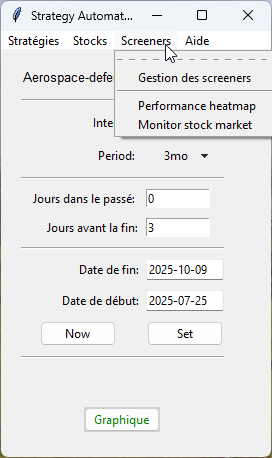
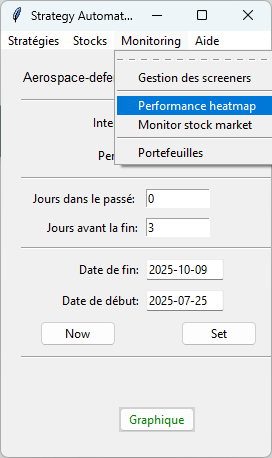
Deployed b010e01 with MkDocs version: 1.6.1

diff --git a/heatmap-screener/heatmaps/index.html b/heatmap-screener/heatmaps/index.html
@@ -1237,15 +1237,47 @@
 
 <h1 id="cartes-de-chaleur-performance">Cartes de chaleur &amp; Performance<a class="headerlink" href="#cartes-de-chaleur-performance" title="Permanent link">&para;</a></h1>
 <p>Un moyen de surveiller le marché avec des cartes de chaleurs graphiques qui affichent les performances des actions misent sous surveillance.</p>
-<p><a href="https://www.trading-et-data-analyses.com/p/documentation-plateforme-de-trading.html#Heatmap_performance_screener">Ancienne documentation - Cartes de chaleur &amp; Performance</a></p>
 <figure style="text-align: center;">
-    <a href="/TradingInPython-doc/images/trading_in_python_2.png" class="glightbox" data-gallery="galerie" title="Titre de l'image">
-        <img src="/TradingInPython-doc/images/trading_in_python_2.png" alt="Image 2" width="200" />
+    <a href="/TradingInPython-doc/images/heatmap/menu-gestion-screeners.png" class="glightbox" data-gallery="galerie" title="Menu Monitoring">
+        <img src="/TradingInPython-doc/images/heatmap/menu-gestion-screeners.png" />
     </a>
-    <figcaption><em>Figure 1 – Cliquez pour agrandir</em></figcaption>
+    <figcaption><em>Menu Monitoring -> Performance heatmap</em></figcaption>
 </figure>
 
-<p>images\heatmap\menu-gestion-screeners.png</p>
+<p>Dans le menu <strong>Monitoring</strong> choisissez <strong>Performace Heatmap</strong> (Carte de chaleur et de performances).</p>
+<p>Surveillez facilement et rapidement des dizaines d'actions, grâce aux indicateurs techniques dans une Heatmap Performance de la plateforme.</p>
+<p>Une Heatmap ou carte de chaleur représente les performances des actions sous forme de couleurs avec des couleurs plus ou moins vertes pour les actions à tendance haussière et plus ou moins rouge pour les actions à tendance baissière.</p>
+<p>Créez vos screeners en sélectionnant les actions que vous souhaitez mettre sous surveillance, ouvrez le <a href="../screeners/">Sélecteur de Stocks</a>, choisissez dans la liste des actions de la plateforme celle que vous souhaitez voir dans la Heatmap (Carte de chaleur) :</p>
+<figure style="text-align: center;">
+    <a href="/TradingInPython-doc/images/heatmap/heatmap.png" class="glightbox" data-gallery="galerie" title="Menu screeners">
+        <img src="/TradingInPython-doc/images/heatmap/heatmap.png" />
+    </a>
+    <figcaption><em>Carte de chaleur et de performance</em></figcaption>
+</figure>
+
+<p>Cliquez sur le bouton <strong>Ouvrir</strong> pour choisir un fichier screeners .json. Ici on est avec <strong>info-quantique.json</strong> il y a 5 actoins du marché de l'informatique Quantique :</p>
+<ul>
+<li>Stocks chargées: 5 - QBTS, IONQ, PLTR, QUBT, RGTI</li>
+</ul>
+<p>Cliquez sur le bouton <strong>Exécuter</strong> pour afficher la carte de Performance :</p>
+<figure style="text-align: center;">
+    <a href="/TradingInPython-doc/images/heatmap/heatmap-quantique.png" class="glightbox" data-gallery="galerie" title="Carte de chaleur du marché de l'informatique quantique">
+        <img src="/TradingInPython-doc/images/heatmap/heatmap-quantique.png"/>
+    </a>
+    <figcaption><em>Carte de chaleur du marché de l'informatique quantique</em></figcaption>
+</figure>
+
+<ul>
+<li>Intervalle : pour la récupération des données ici '1d' 1 jour</li>
+<li>Sampling : -3 -5 -7 signifie que les calculs vont se faire -3 -5 et -7 jours en arrière</li>
+</ul>
+<p>Pour comprendre les couleurs de la carte vous ouvrez la fiche technique de l'action par exemple </p>
+<figure style="text-align: center;">
+    <a href="/TradingInPython-doc/images/heatmap/fiche-technique.png" class="glightbox" data-gallery="galerie" title="Fiche technique de l'action">
+        <img src="/TradingInPython-doc/images/heatmap/fiche-technique.png"/>
+    </a>
+    <figcaption><em>Fiche technique de l'action</em></figcaption>
+</figure>
 
 
 
@@ -1266,7 +1298,7 @@
     <span class="md-icon" title="Dernière mise à jour">
       <svg xmlns="http://www.w3.org/2000/svg" viewBox="0 0 24 24"><path d="M21 13.1c-.1 0-.3.1-.4.2l-1 1 2.1 2.1 1-1c.2-.2.2-.6 0-.8l-1.3-1.3c-.1-.1-.2-.2-.4-.2m-1.9 1.8-6.1 6V23h2.1l6.1-6.1zM12.5 7v5.2l4 2.4-1 1L11 13V7zM11 21.9c-5.1-.5-9-4.8-9-9.9C2 6.5 6.5 2 12 2c5.3 0 9.6 4.1 10 9.3-.3-.1-.6-.2-1-.2s-.7.1-1 .2C19.6 7.2 16.2 4 12 4c-4.4 0-8 3.6-8 8 0 4.1 3.1 7.5 7.1 7.9l-.1.2z"/></svg>
     </span>
-    <span class="git-revision-date-localized-plugin git-revision-date-localized-plugin-timeago" title="7 novembre 2025 11:59:48 UTC"><span class="timeago" datetime="2025-11-07T11:59:48+00:00" locale="fr"></span></span><span class="git-revision-date-localized-plugin git-revision-date-localized-plugin-iso_date" title="7 novembre 2025 11:59:48 UTC">2025-11-07</span>
+    <span class="git-revision-date-localized-plugin git-revision-date-localized-plugin-timeago" title="13 novembre 2025 17:22:10 UTC"><span class="timeago" datetime="2025-11-13T17:22:10+00:00" locale="fr"></span></span><span class="git-revision-date-localized-plugin git-revision-date-localized-plugin-iso_date" title="13 novembre 2025 17:22:10 UTC">2025-11-13</span>
   </span>
 
     

diff --git a/tests/images/index.html b/tests/images/index.html
@@ -1106,6 +1106,24 @@
   
 </li>
       
+        <li class="md-nav__item">
+  <a href="#test-ultime" class="md-nav__link">
+    <span class="md-ellipsis">
+      Test ultime
+    </span>
+  </a>
+  
+</li>
+      
+        <li class="md-nav__item">
+  <a href="#premiers-tests" class="md-nav__link">
+    <span class="md-ellipsis">
+      Premiers tests
+    </span>
+  </a>
+  
+</li>
+      
     </ul>
   
 </nav>
@@ -1358,6 +1376,24 @@
   
 </li>
       
+        <li class="md-nav__item">
+  <a href="#test-ultime" class="md-nav__link">
+    <span class="md-ellipsis">
+      Test ultime
+    </span>
+  </a>
+  
+</li>
+      
+        <li class="md-nav__item">
+  <a href="#premiers-tests" class="md-nav__link">
+    <span class="md-ellipsis">
+      Premiers tests
+    </span>
+  </a>
+  
+</li>
+      
     </ul>
   
 </nav>
@@ -1492,7 +1528,7 @@
     <span class="p">&lt;</span><span class="nt">figcaption</span><span class="p">&gt;&lt;</span><span class="nt">em</span><span class="p">&gt;</span>Figure 1 – Cliquez pour agrandir<span class="p">&lt;/</span><span class="nt">em</span><span class="p">&gt;&lt;/</span><span class="nt">figcaption</span><span class="p">&gt;</span>
 <span class="p">&lt;/</span><span class="nt">figure</span><span class="p">&gt;</span>
 </code></pre></div>
-<h1 id="test-ultime">Test ultime<a class="headerlink" href="#test-ultime" title="Permanent link">&para;</a></h1>
+<h2 id="test-ultime">Test ultime<a class="headerlink" href="#test-ultime" title="Permanent link">&para;</a></h2>
 <figure style="text-align: center;">
   <a href="/TradingInPython-doc/images/trading_in_python.png" target="_blank" title="Titre de l'image">
     <img src="/TradingInPython-doc/images/trading_in_python.png" alt="Capture d'écran" class="centered" width="450" />
@@ -1535,7 +1571,7 @@
     <span class="md-icon" title="Dernière mise à jour">
       <svg xmlns="http://www.w3.org/2000/svg" viewBox="0 0 24 24"><path d="M21 13.1c-.1 0-.3.1-.4.2l-1 1 2.1 2.1 1-1c.2-.2.2-.6 0-.8l-1.3-1.3c-.1-.1-.2-.2-.4-.2m-1.9 1.8-6.1 6V23h2.1l6.1-6.1zM12.5 7v5.2l4 2.4-1 1L11 13V7zM11 21.9c-5.1-.5-9-4.8-9-9.9C2 6.5 6.5 2 12 2c5.3 0 9.6 4.1 10 9.3-.3-.1-.6-.2-1-.2s-.7.1-1 .2C19.6 7.2 16.2 4 12 4c-4.4 0-8 3.6-8 8 0 4.1 3.1 7.5 7.1 7.9l-.1.2z"/></svg>
     </span>
-    <span class="git-revision-date-localized-plugin git-revision-date-localized-plugin-timeago" title="13 novembre 2025 16:16:44 UTC"><span class="timeago" datetime="2025-11-13T16:16:44+00:00" locale="fr"></span></span><span class="git-revision-date-localized-plugin git-revision-date-localized-plugin-iso_date" title="13 novembre 2025 16:16:44 UTC">2025-11-13</span>
+    <span class="git-revision-date-localized-plugin git-revision-date-localized-plugin-timeago" title="13 novembre 2025 17:22:10 UTC"><span class="timeago" datetime="2025-11-13T17:22:10+00:00" locale="fr"></span></span><span class="git-revision-date-localized-plugin git-revision-date-localized-plugin-iso_date" title="13 novembre 2025 17:22:10 UTC">2025-11-13</span>
   </span>
 
     
